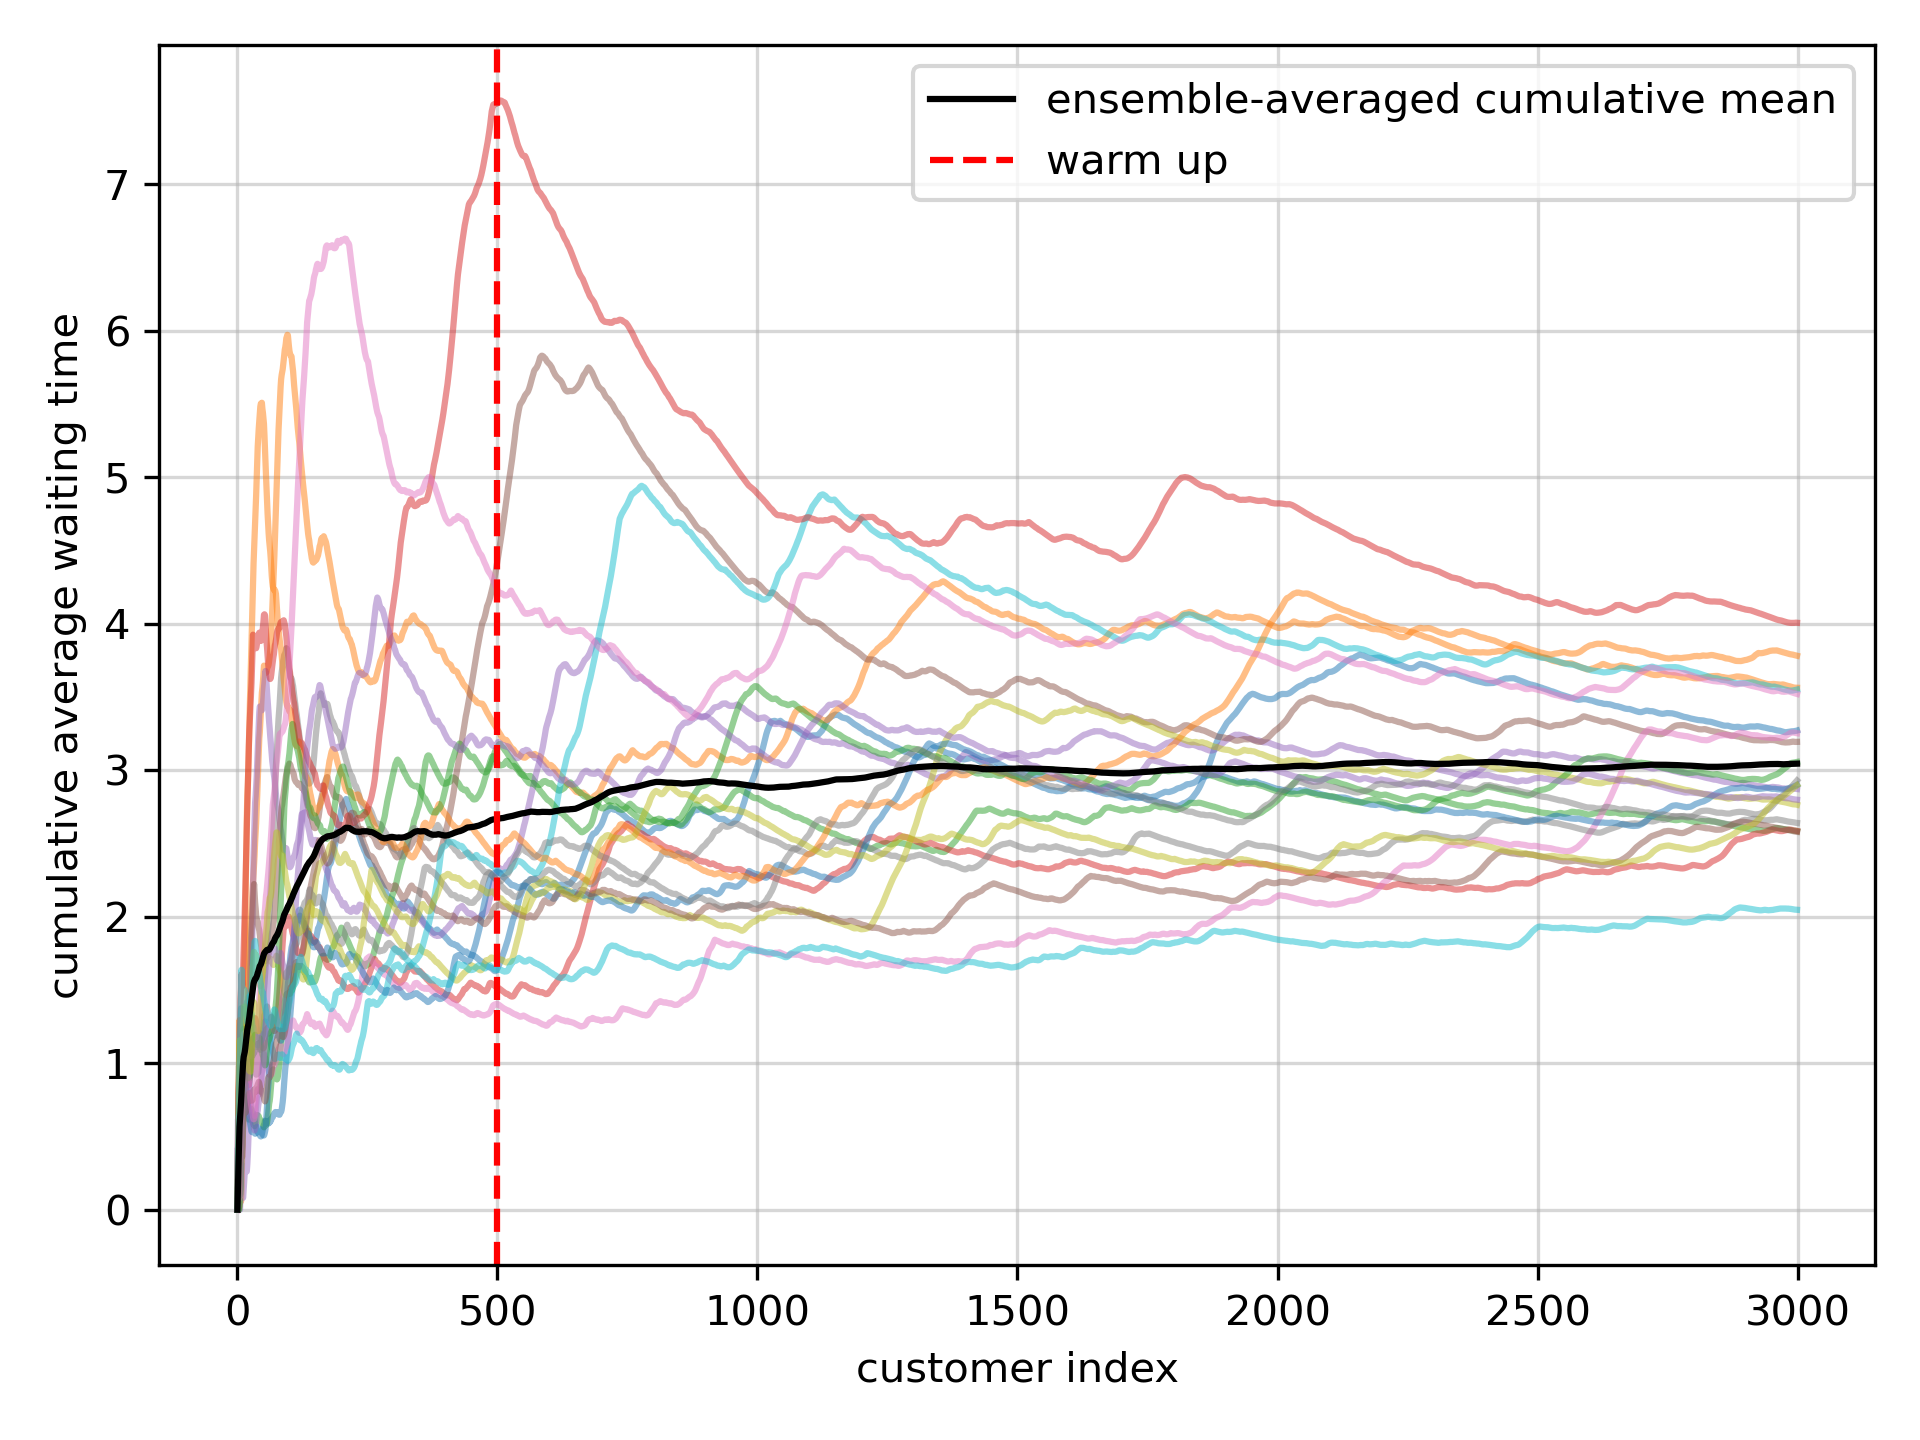
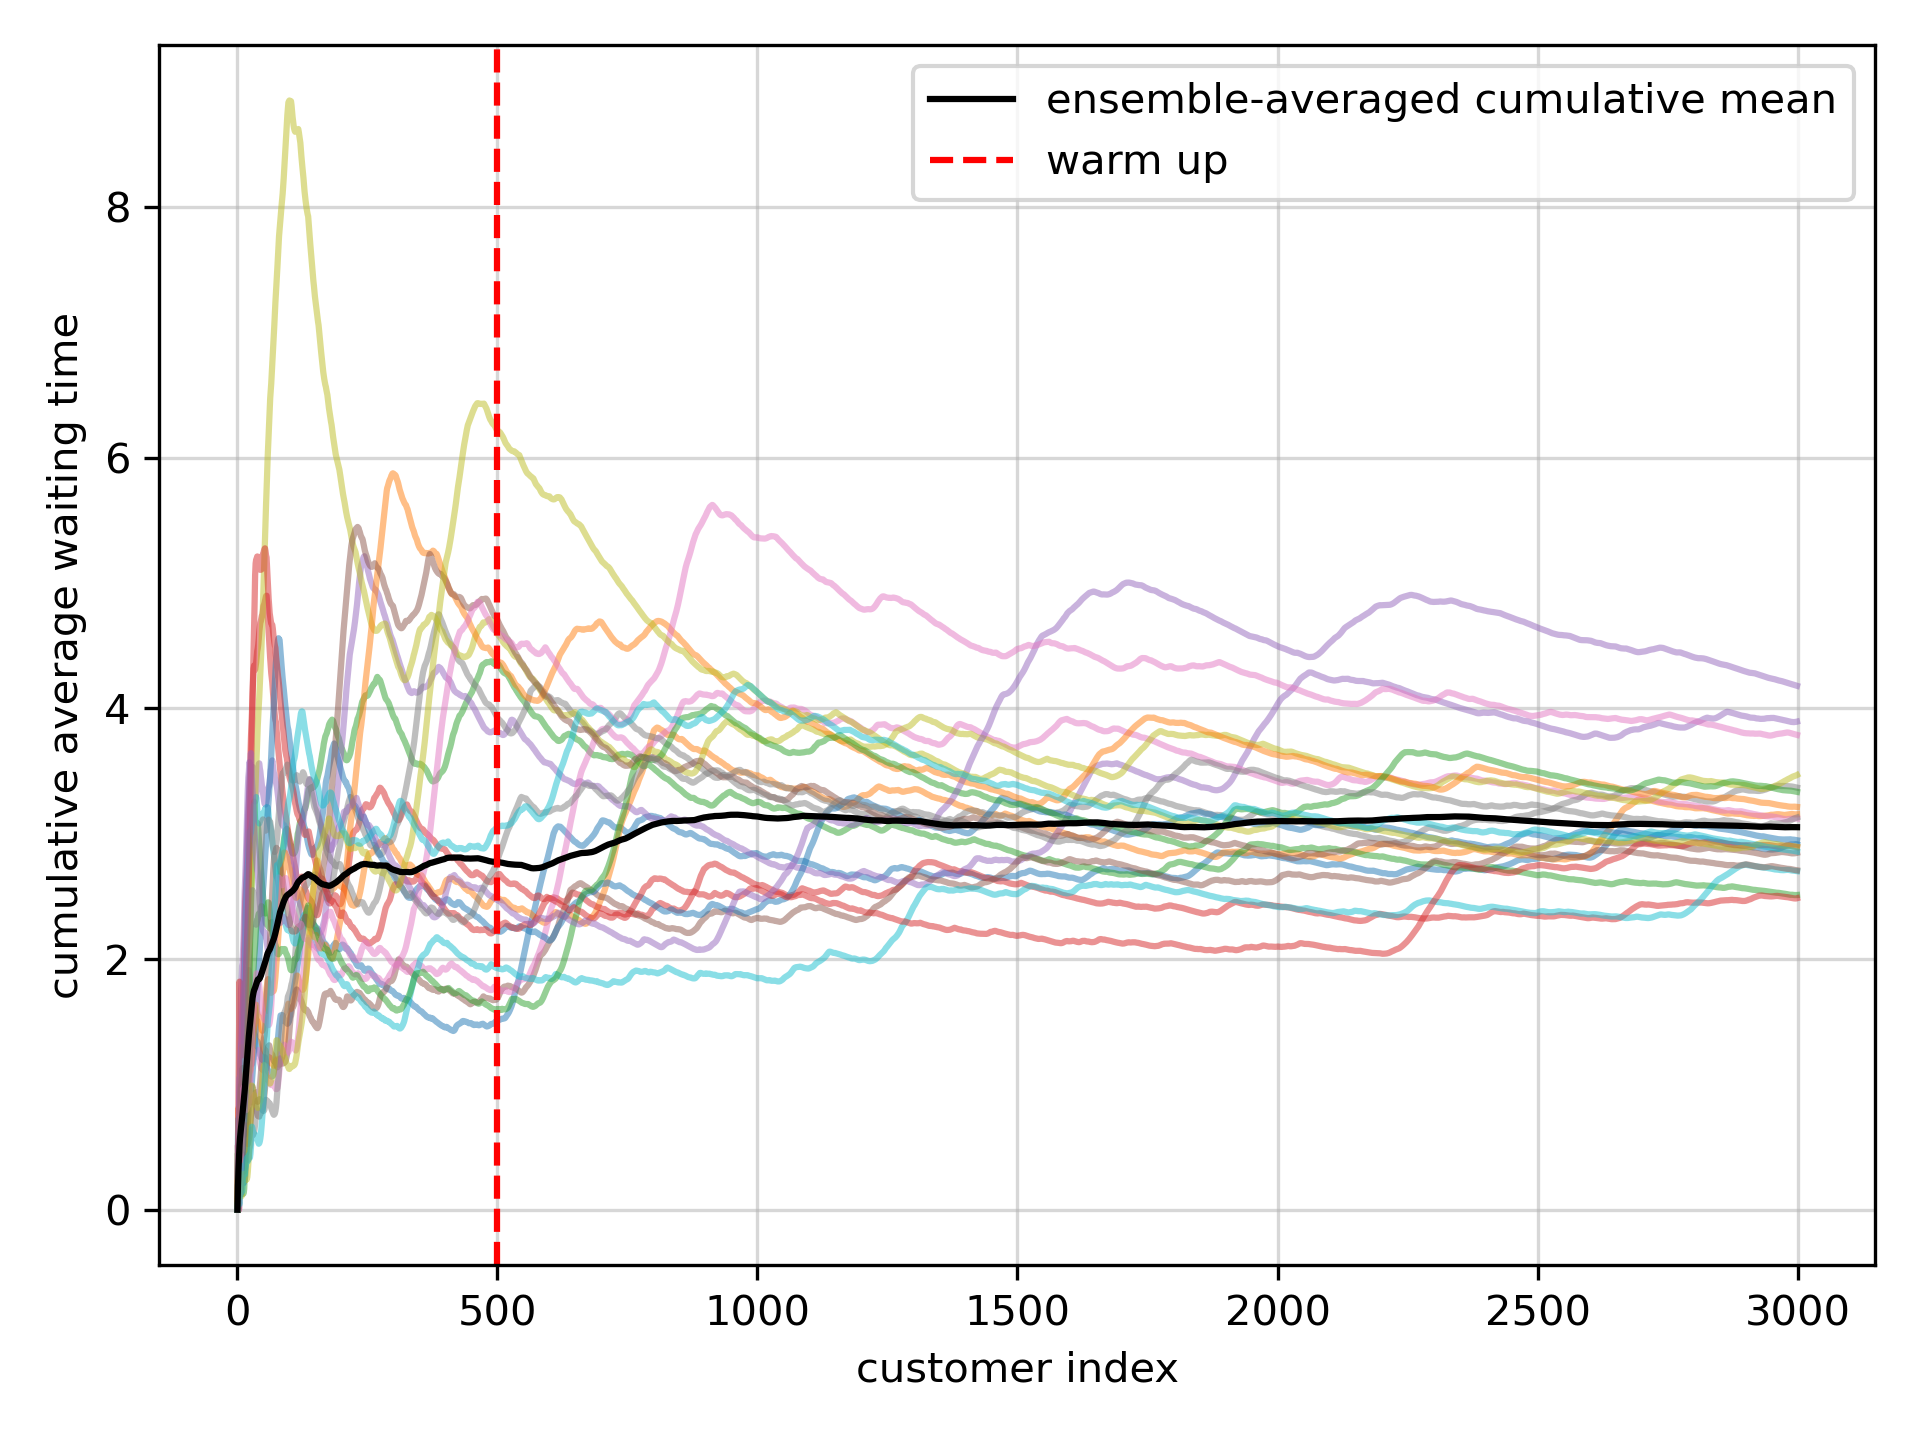
miao

Changed region(s): [[0.0312, 0.0625, 0.9688, 0.8125]]

diff --git a/assignment_2/main.py b/assignment_2/main.py
@@ -369,7 +369,7 @@ if __name__ == "__main__":
             std_waiting_time,
             waiting_times_collector,
         ) = run_multiple_simulations(
-            arrival_rate=arrival_rate, st_std=0.01, num_replications=R
+            arrival_rate=arrival_rate, st_std=2, num_replications=R
         )
 
         print(f"Mean passengers passed: {np.mean(passengers_passed):.0f}")
